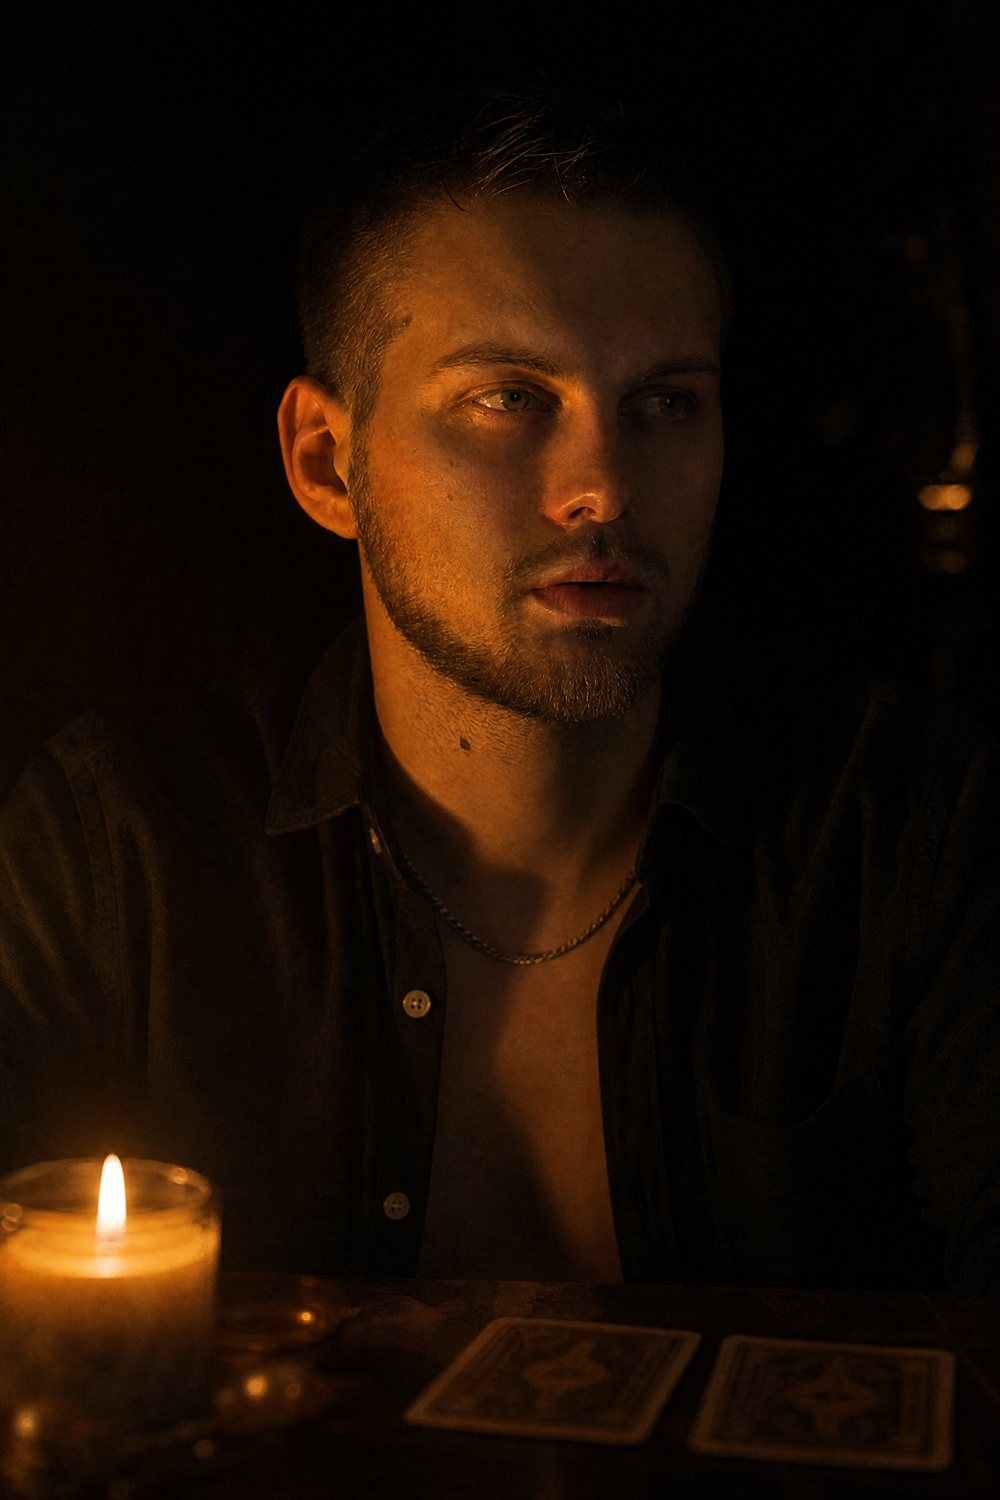
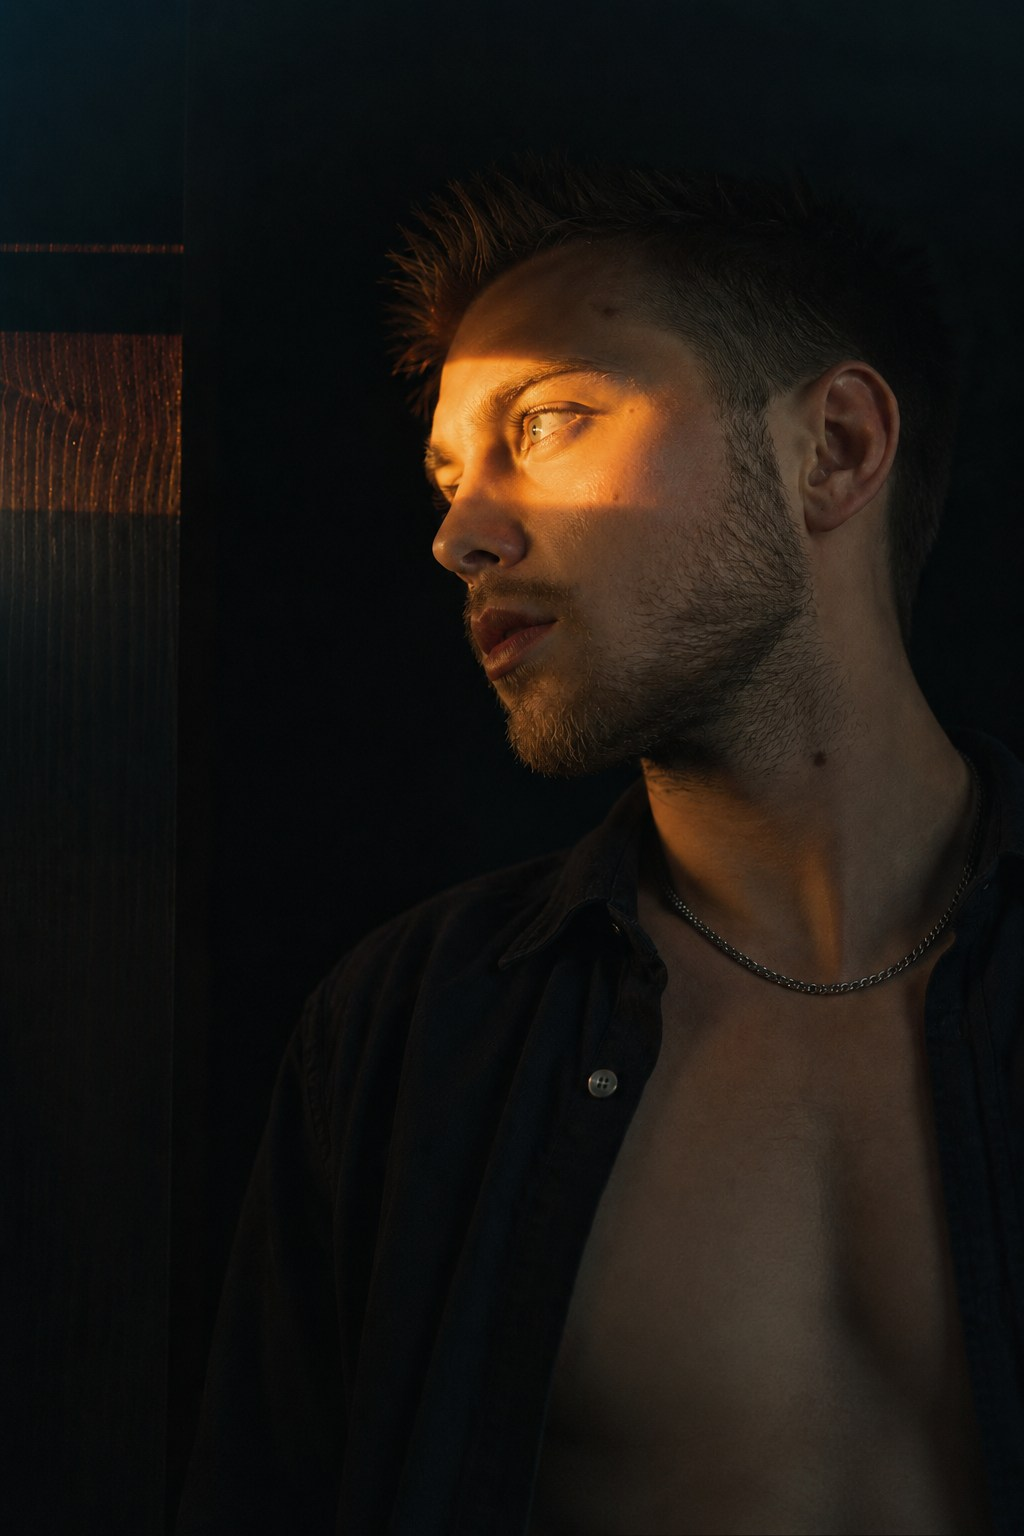
Тёмный текст на светлых секциях + новый портрет в Обо мне

diff --git a/index.html b/index.html
@@ -78,7 +78,7 @@
 
   /* СВЕТЛЫЕ секции — контраст свет/тьма и читаемый текст */
   .sec.light{
-    --ink:#2f241a; --muted:#6b5a48; --muted-2:#98866e;
+    --ink:#2a2015; --muted:#463829; --muted-2:#6a5943;
     --panel-a:#fbf6ec; --panel-b:#f2e8d6; --panel-hi:#fdf9f1;
     --gold:#a9782f; --gold-2:#8a6120;
     --line:rgba(120,86,40,.32); --line-2:rgba(120,86,40,.16);
@@ -462,7 +462,7 @@
 <section class="sec light" id="about">
   <div class="wrap about">
     <div class="photo">
-      <img src="assets/me.jpg" alt="Никита — таролог" style="object-position:50% 24%" loading="lazy">
+      <img src="assets/me.jpg" alt="Никита — таролог" style="object-position:52% 16%" loading="lazy">
       <span class="accent"><img src="assets/about.jpg" alt="карты Таро" loading="lazy"></span>
     </div>
     <div>
